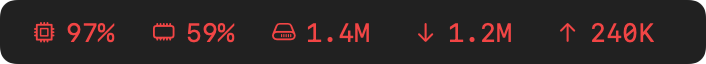
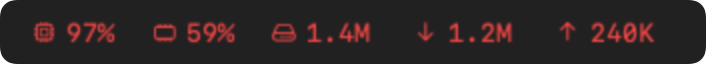
Lower menu bar color threshold for everyday visibility
CPU color ramp was 50–90% on the all-core average, which rarely triggers in
normal use, so the bar appeared to never change color. Lowered to 25–75% so
moderate loads visibly shift toward red. Regenerated docs accordingly.

diff --git a/Sources/StatusAppBar/App.swift b/Sources/StatusAppBar/App.swift
@@ -76,8 +76,8 @@ enum SnapshotRenderer {
             to: dir + "/popover.png"
         )
 
-        // Menu bar etiketi — normal (nötr)
-        writePNG(barStrip(MetricsManager.mock(cpuTotal: 0.34), settings),
+        // Menu bar etiketi — normal/rahat (nötr)
+        writePNG(barStrip(MetricsManager.mock(cpuTotal: 0.20), settings),
                  to: dir + "/menubar.png")
 
         // Menu bar etiketi — yük altında (kırmızı)

diff --git a/Sources/StatusAppBar/Views/MenuBarLabel.swift b/Sources/StatusAppBar/Views/MenuBarLabel.swift
@@ -57,8 +57,10 @@ struct MenuBarLabel: View {
     // MARK: - Stres -> renk
 
     /// 0 (rahat) ... 1 (tam yük). Esas sürücü CPU; RAM yalnızca çok yüksekken katkı verir.
+    /// CPU eşiği günlük kullanımda görünür olsun diye düşük tutulur: ortalama CPU
+    /// ~%25'te renklenmeye başlar, ~%75'te tam kırmızı.
     private func stressLevel() -> Double {
-        let cpuStress = ramp(metrics.cpu.total, from: 0.50, to: 0.90)
+        let cpuStress = ramp(metrics.cpu.total, from: 0.25, to: 0.75)
         let ramStress = ramp(metrics.memory.usedFraction, from: 0.85, to: 0.98)
         return max(cpuStress, ramStress)
     }